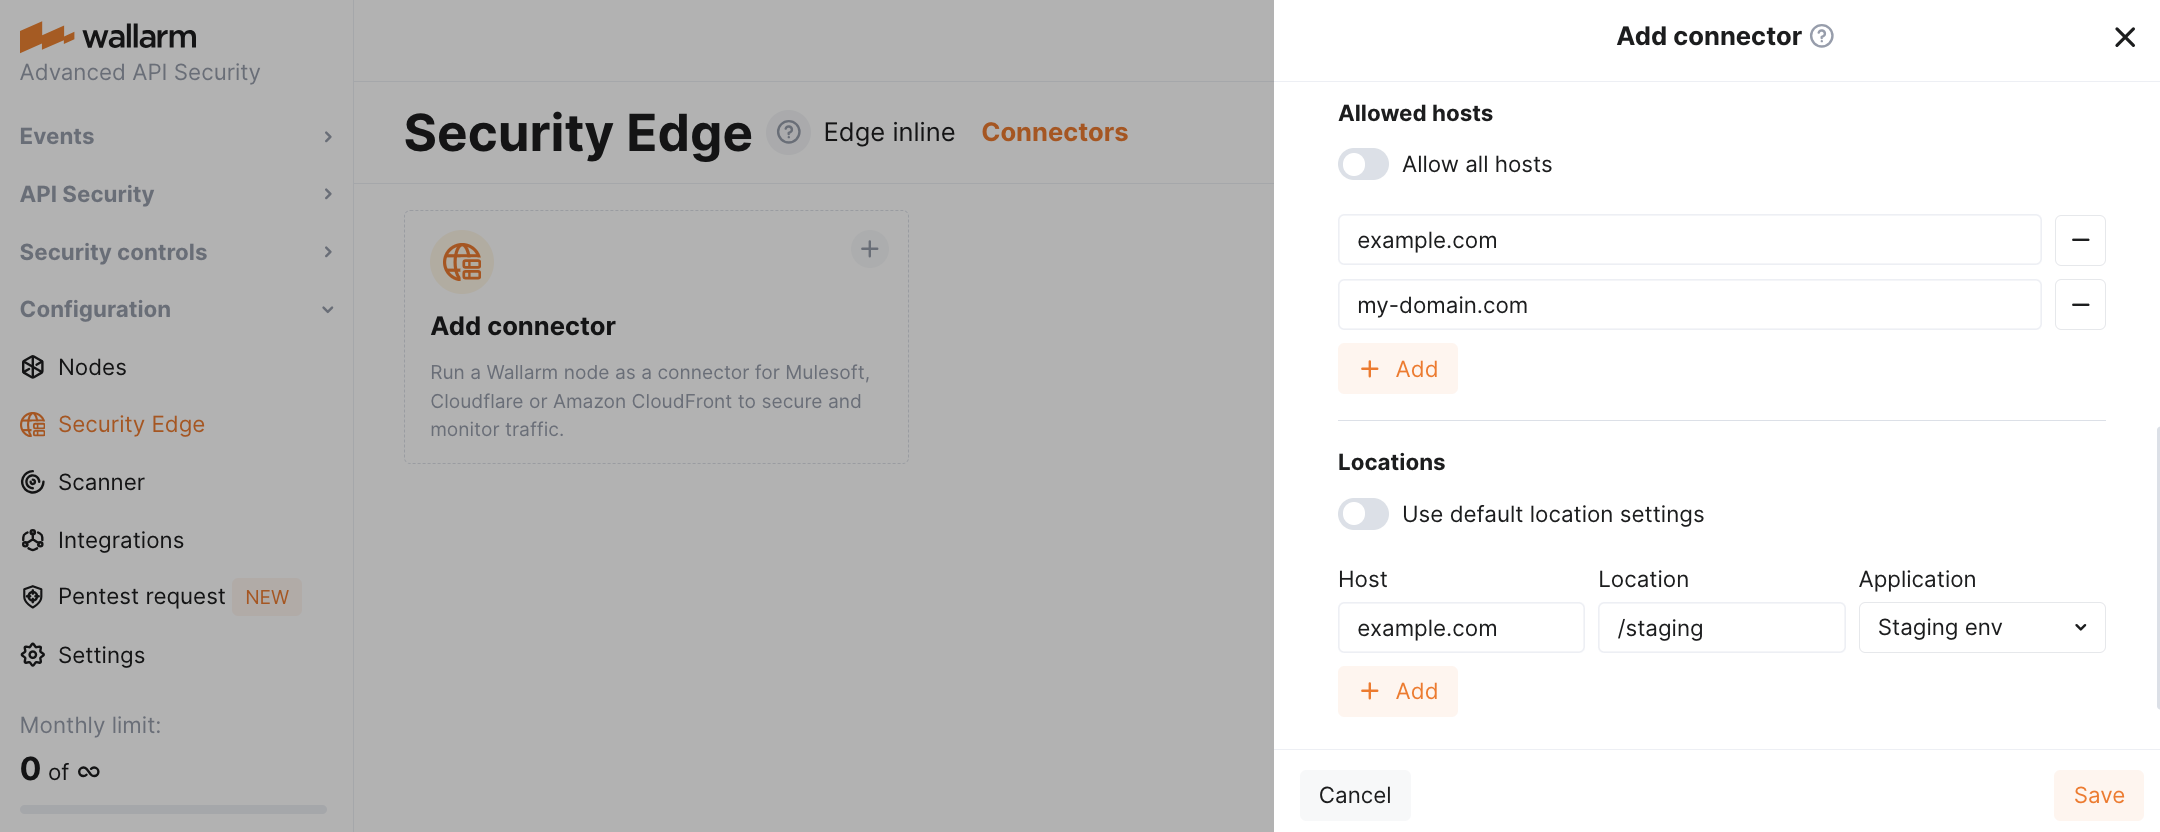
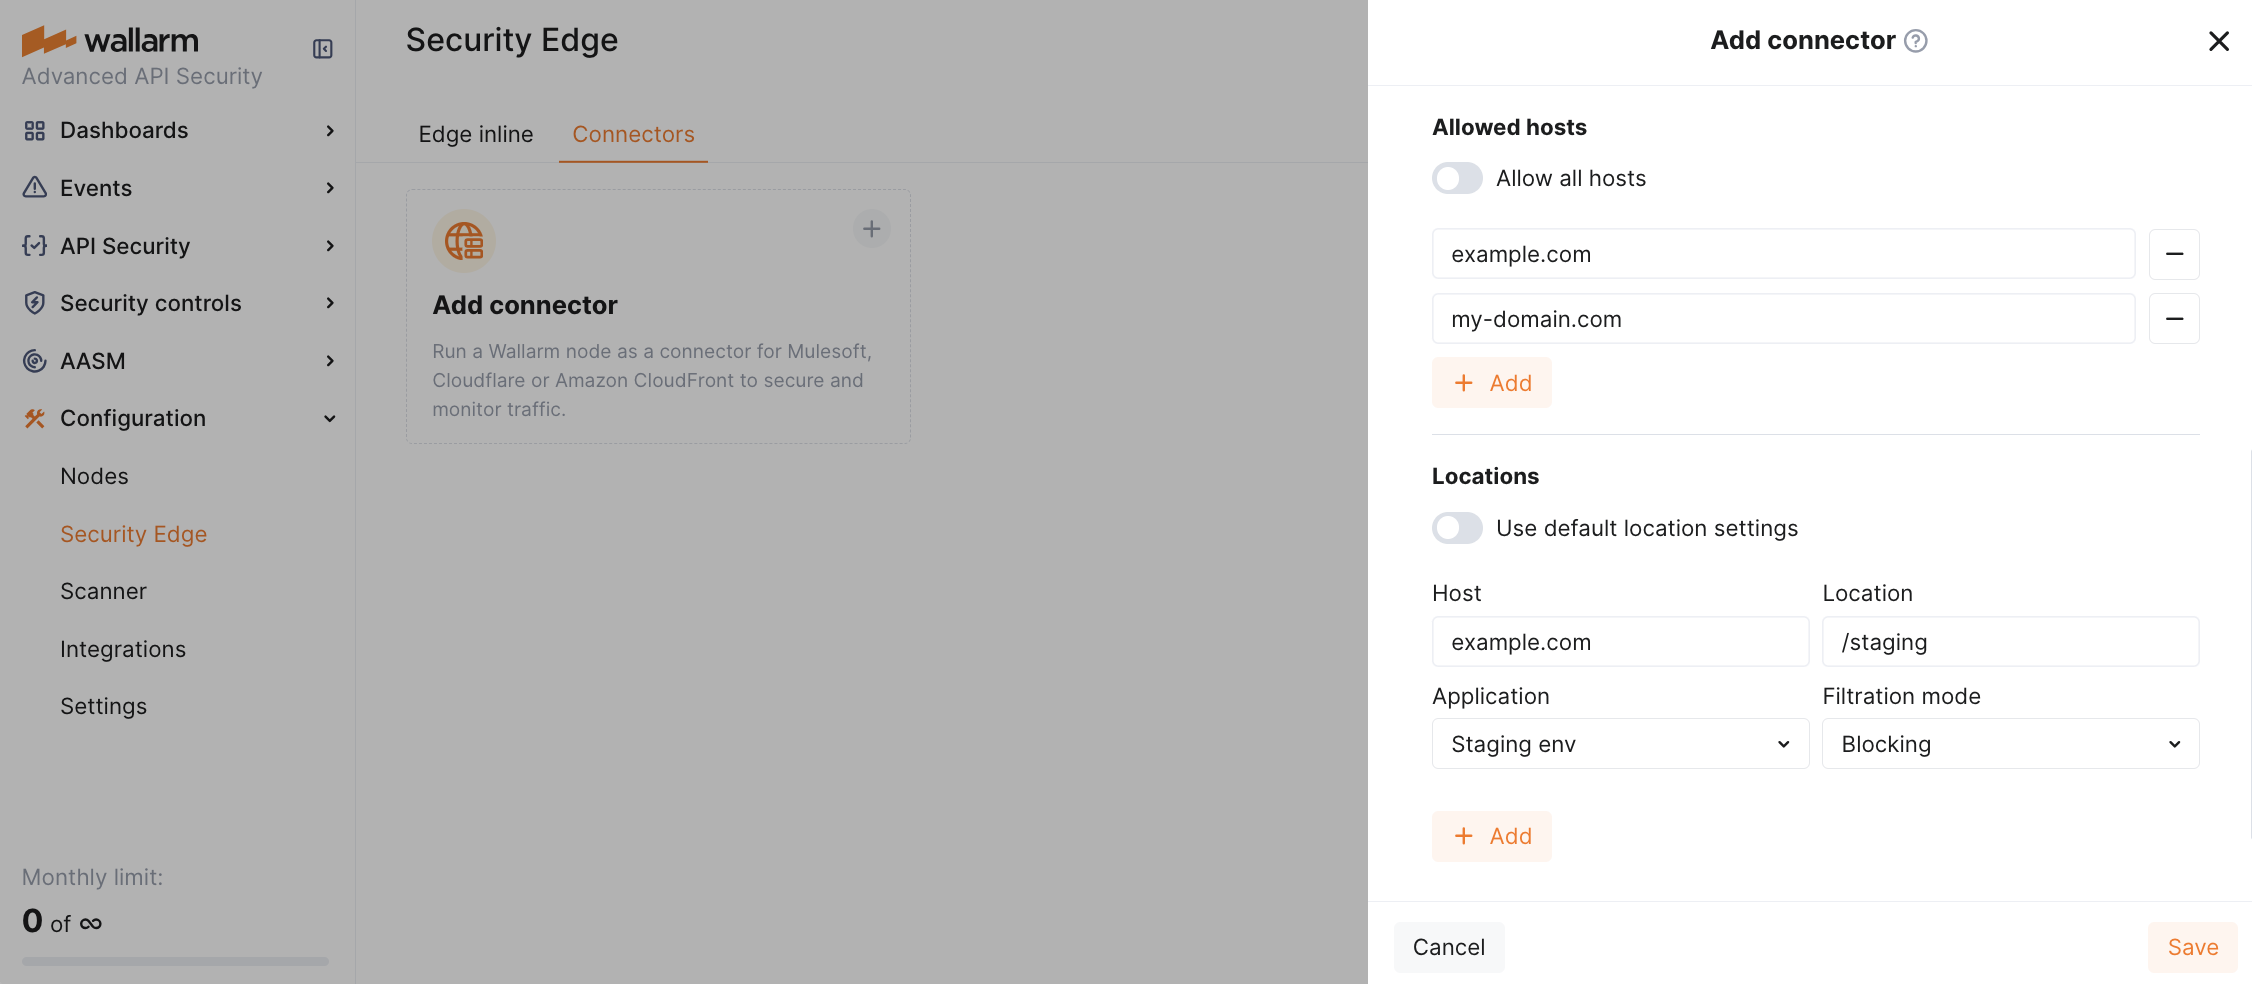
filtration mode for locations in se connectors

diff --git a/docs/latest/installation/se-connector.md b/docs/latest/installation/se-connector.md
@@ -43,7 +43,7 @@ One endpoint can handle multiple connections from different hosts.
 
         If a specified host does not exist or is unreachable, the 415 error will be returned, and the traffic will not be processed.
     
-    * **Location configuration**: assign unique application IDs to specific hosts and locations, if needed.
+    * **Location configuration**: assign unique application IDs and traffic analysis mode to specific hosts and locations, if needed.
 
         ![!][se-connector-hosts-locations-img]
 1. Once saved, it will take 3-5 minutes for Wallarm to deploy and configure the node for the connector.
